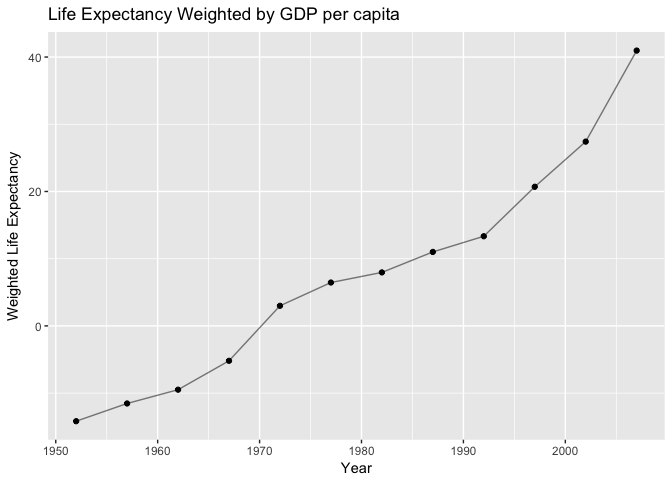
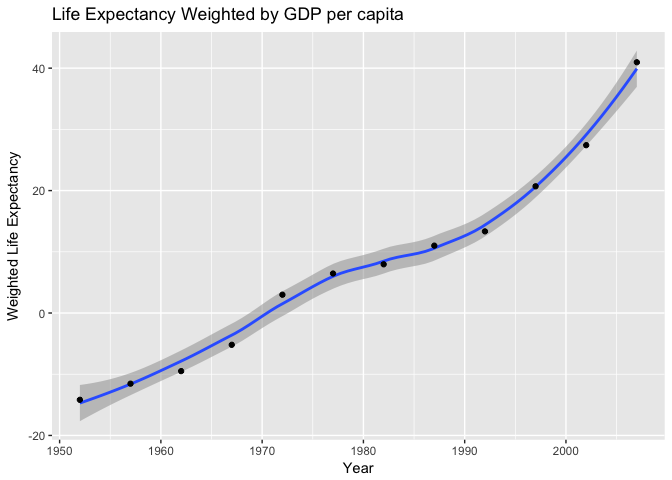
graph change

diff --git a/hw03/hw3_gapminder_exploration.md b/hw03/hw3_gapminder_exploration.md
@@ -191,4 +191,6 @@ Here is a much cleaner graph to show our data:
 
 ![](hw3_gapminder_exploration_files/figure-markdown_github-ascii_identifiers/unnamed-chunk-16-1.png)
 
-Here we can see that Africa had the largest number of countries with a very low average life expectancy for years before 1972 but after that African countries were more similiar to other continents. Most continents have very few countries with life expectancies under 40. One thing with this graph that drives me crazy is that Europe and Oceania both have zeros for all their data perfectly overlay. This results in a purple colour (blue and pink) for the bottome zeros. It's cool that it does that but for a reader it would be very confusing.
+Here we can see that Africa had the largest number of countries with a very low average life expectancy for years before 1972 but after that African countries were more similiar to other continents. Most continents have very few countries with life expectancies under 40. One thing with this graph that drives me crazy is that Europe and Oceania both have zeros for all their data perfectly overlay. This results in a purple colour (blue and pink) for the bottom zeros. It's cool that it does that but for a reader it would be very confusing.
+
+So I added a jitter line to uncluster these data points which does make for a busier plot but now it is clearer what the data points are. ![](hw3_gapminder_exploration_files/figure-markdown_github-ascii_identifiers/unnamed-chunk-17-1.png)
